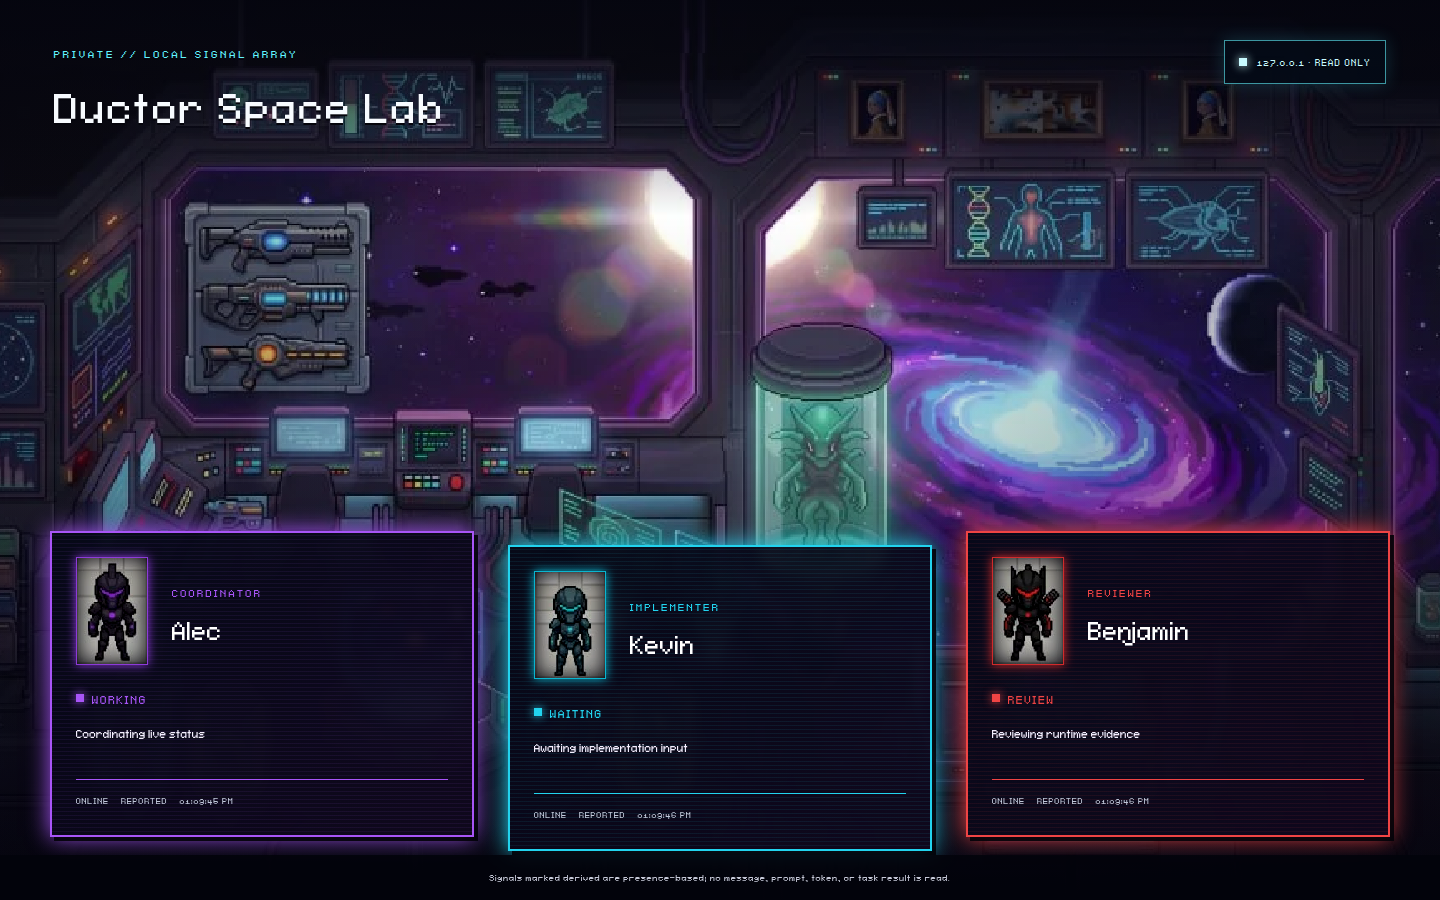
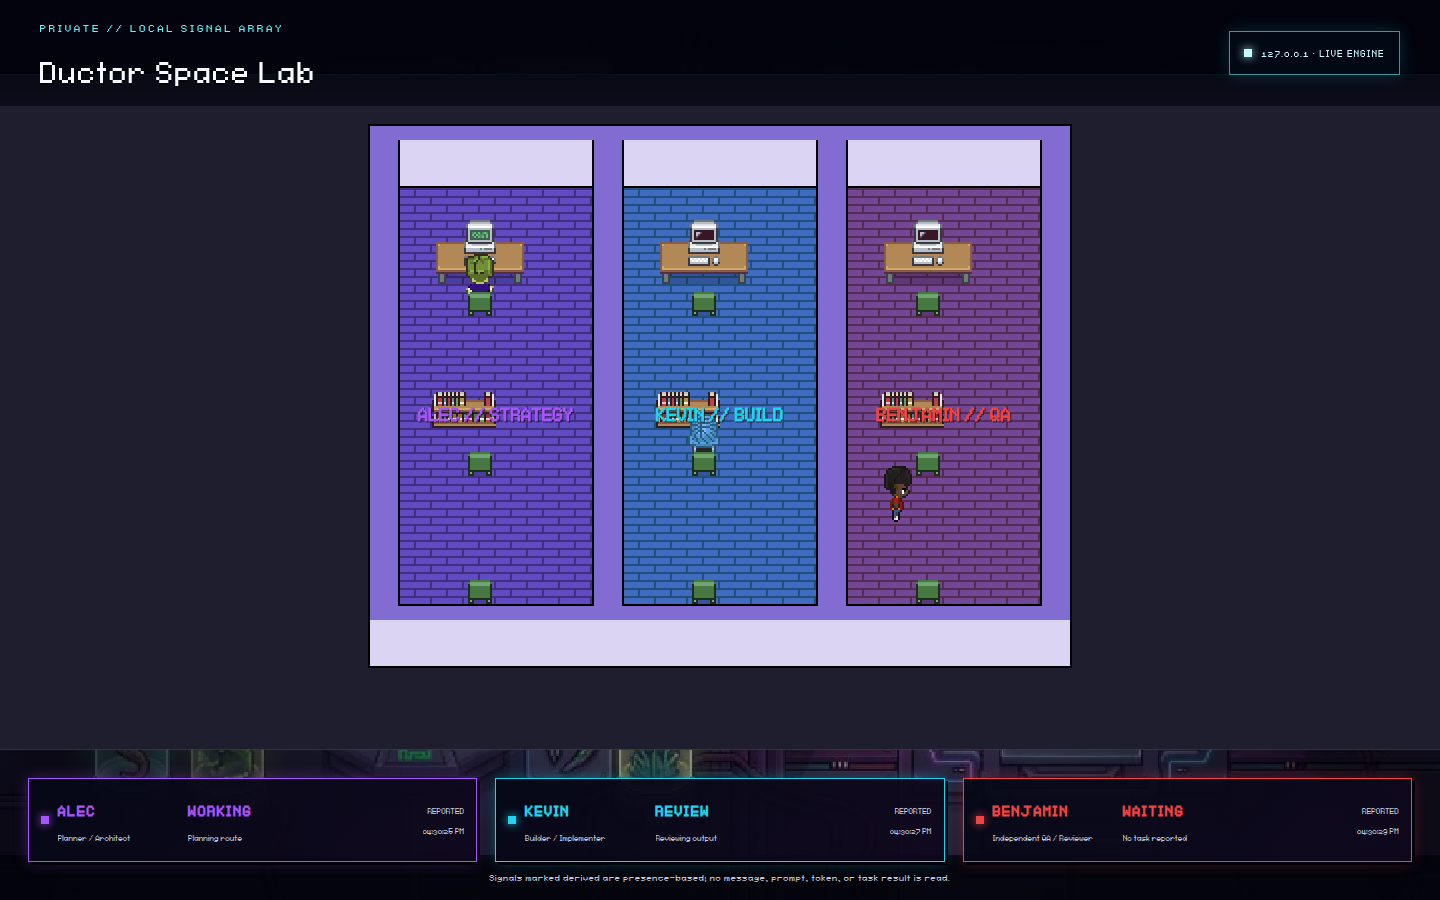
docs(ductor): update screenshot and describe in-world engine agents

diff --git a/README.md b/README.md
@@ -5,9 +5,17 @@ cyan), and Benjamin (independent QA, red)._
 
 ![Ductor Space Lab showing the three-agent command deck](docs/assets/ductor-space-lab.png)
 
-Ductor Space Lab turns the Alec-Kevin-Benjamin workflow into a focused pixel-art status
-board. It shows who is active, what stage each role is in, and how fresh that signal is
-without exposing the conversations behind the work.
+Ductor Space Lab turns the Alec-Kevin-Benjamin workflow into a focused pixel-art command
+deck powered by the canonical 2D pixel engine. Alec, Kevin, and Benjamin are rendered as
+in-world moving agents with dedicated work lanes and real-time pathfinding:
+
+- **Truthful actions:** agents move to assigned stations and animate based on their actual
+  state—typing at workstations when `working`, reading at archives during `review`, wandering
+  when `idle`, holding when `waiting`, or standing down when `blocked` or `offline`.
+- **Live retargeting:** incoming status updates immediately redirect character routes and
+  actions in place without reloading or restarting the canvas.
+- **Privacy preserving:** shows who is active, what stage each role is in, and how fresh that
+  signal is without exposing underlying prompts, code, or conversations.
 
 ## The crew
 
